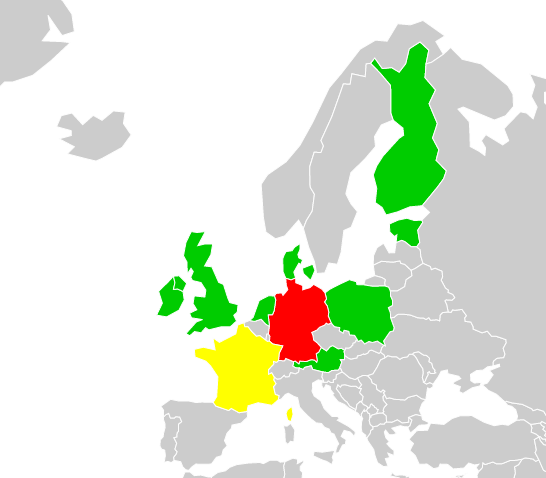
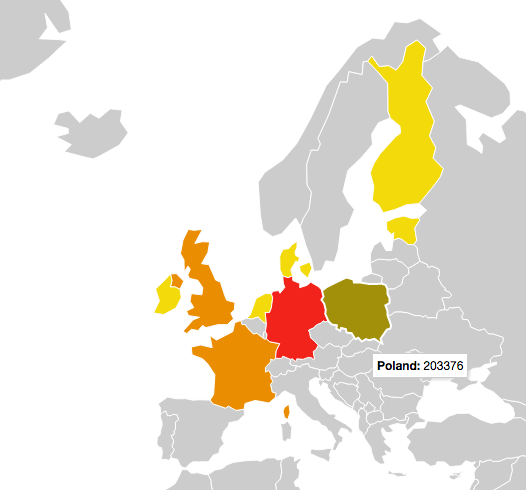
Update colours to be on same spectrum

diff --git a/crimemap/static/script.js b/crimemap/static/script.js
@@ -29,18 +29,34 @@ function drawMap() {
 		return {path: path, projection: proj}
 	}
 
+	var crimeFills = {
+		defaultFill: '#ccc',
+		low: 'rgb(243, 218, 10)',
+		med: 'rgb(235, 141, 0)',
+		high: 'rgb(242, 35, 26)'
+	};
+
 	datamap = new Datamap({
 		element: container,
 		responsive: true,
 		aspectRatio: 0.34,
 		setProjection: projection,
-		fills: {
-			defaultFill: '#ccc',
-			low: '#0c0',
-			med: '#ff0',
-			high: '#f00'
-		},
+		fills: crimeFills,
 		geographyConfig: {
+			highlightFillColor: function(geo) {
+				switch (geo.fillKey)
+				{
+					case 'low':
+						return 'rgb(162, 144, 10)';
+					case 'med':
+						return 'rgb(152, 81, 5)';
+					case 'high':
+						return 'rgb(157, 19, 14)';
+					default:
+						return 'rgb(44, 44, 44)';
+				}
+			},
+			highlightBorderColor: '#fff',
 			popupTemplate: function(geo, data) {
 				var name = geo.properties.name;
 				var id = geo.id;

diff --git a/crimemap/static/style.css b/crimemap/static/style.css
@@ -27,13 +27,13 @@ select {
 }
 
 .key-low {
-	background-color: #0c0;
+	background-color: rgb(243, 218, 10);
 }
 
 .key-med {
-	background-color: #ff0;
+	background-color: rgb(235, 141, 0);
 }
 
 .key-high {
-	background-color: #f00;
+	background-color: rgb(242, 35, 26);
 }
